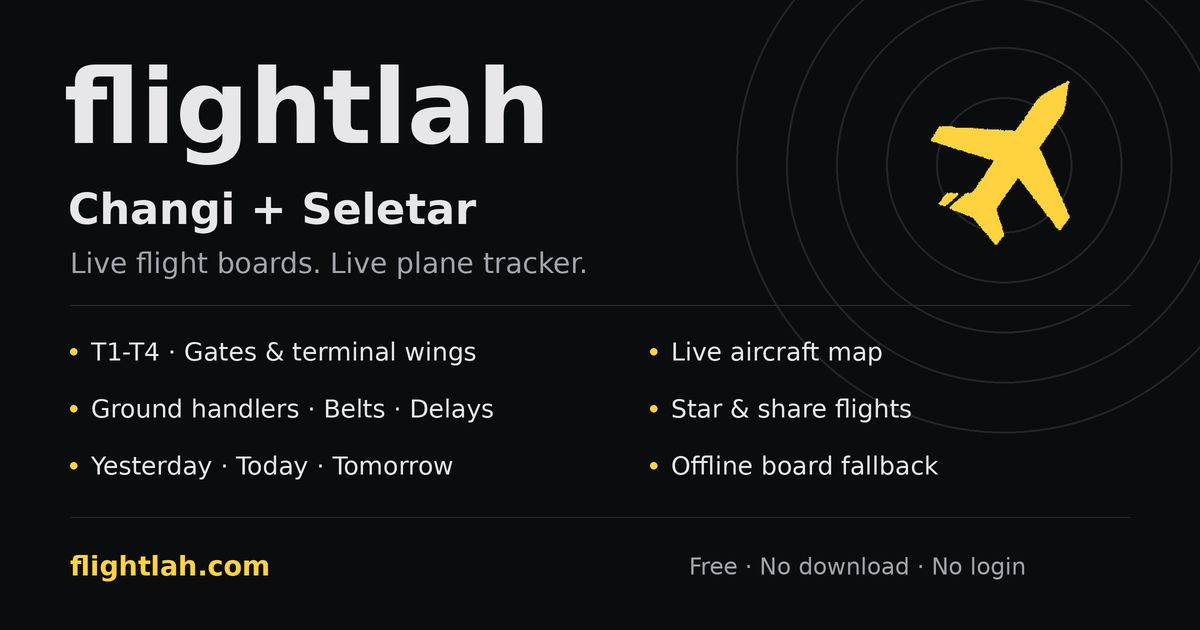
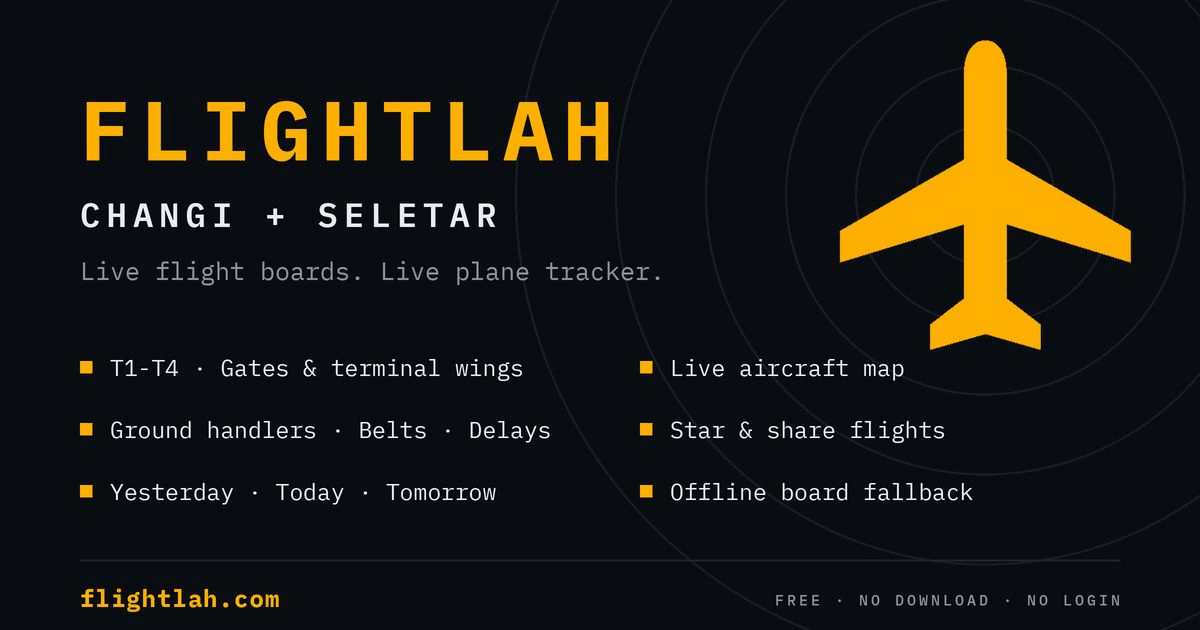
New link-preview image (og.png) and preview cache token v=4
The og:image / twitter:image URLs on the page and the lock screen move to
?v=4 so WhatsApp and other apps fetch the new image instead of a cached one.

Claude-Session: https://claude.ai/code/session_014FsdEp2u74m8DrGTwfdx84

diff --git a/web/index.html b/web/index.html
@@ -20,11 +20,11 @@
   <meta property="og:title" content="flightlah">
   <meta property="og:description" content="Live departures, arrivals and aircraft around Singapore Changi Airport, terminals 1–4.">
   <meta property="og:url" content="https://flightlah.com/">
-  <meta property="og:image" content="https://flightlah.com/og.png?v=3">
+  <meta property="og:image" content="https://flightlah.com/og.png?v=4">
   <meta name="twitter:card" content="summary_large_image">
   <meta name="twitter:title" content="flightlah">
   <meta name="twitter:description" content="Live departures, arrivals and aircraft around Singapore Changi Airport, terminals 1–4.">
-  <meta name="twitter:image" content="https://flightlah.com/og.png?v=3">
+  <meta name="twitter:image" content="https://flightlah.com/og.png?v=4">
   <link rel="stylesheet" href="https://cdnjs.cloudflare.com/ajax/libs/leaflet/1.9.4/leaflet.min.css" crossorigin="anonymous">
   <script>
     // Startup splash: decided before first paint. Fresh app open only (sessionStorage

diff --git a/web/functions/_middleware.js b/web/functions/_middleware.js
@@ -63,11 +63,11 @@ function lockPage(error) {
   <meta property="og:title" content="flightlah">
   <meta property="og:description" content="Live departures and arrivals for Singapore Changi Airport, plus a live plane tracker.">
   <meta property="og:url" content="https://flightlah.com/">
-  <meta property="og:image" content="https://flightlah.com/og.png?v=3">
+  <meta property="og:image" content="https://flightlah.com/og.png?v=4">
   <meta name="twitter:card" content="summary_large_image">
   <meta name="twitter:title" content="flightlah">
   <meta name="twitter:description" content="Live departures and arrivals for Singapore Changi Airport, plus a live plane tracker.">
-  <meta name="twitter:image" content="https://flightlah.com/og.png?v=3">
+  <meta name="twitter:image" content="https://flightlah.com/og.png?v=4">
   <style>
     * { box-sizing: border-box; }
     html, body { margin: 0; min-height: 100%; }
